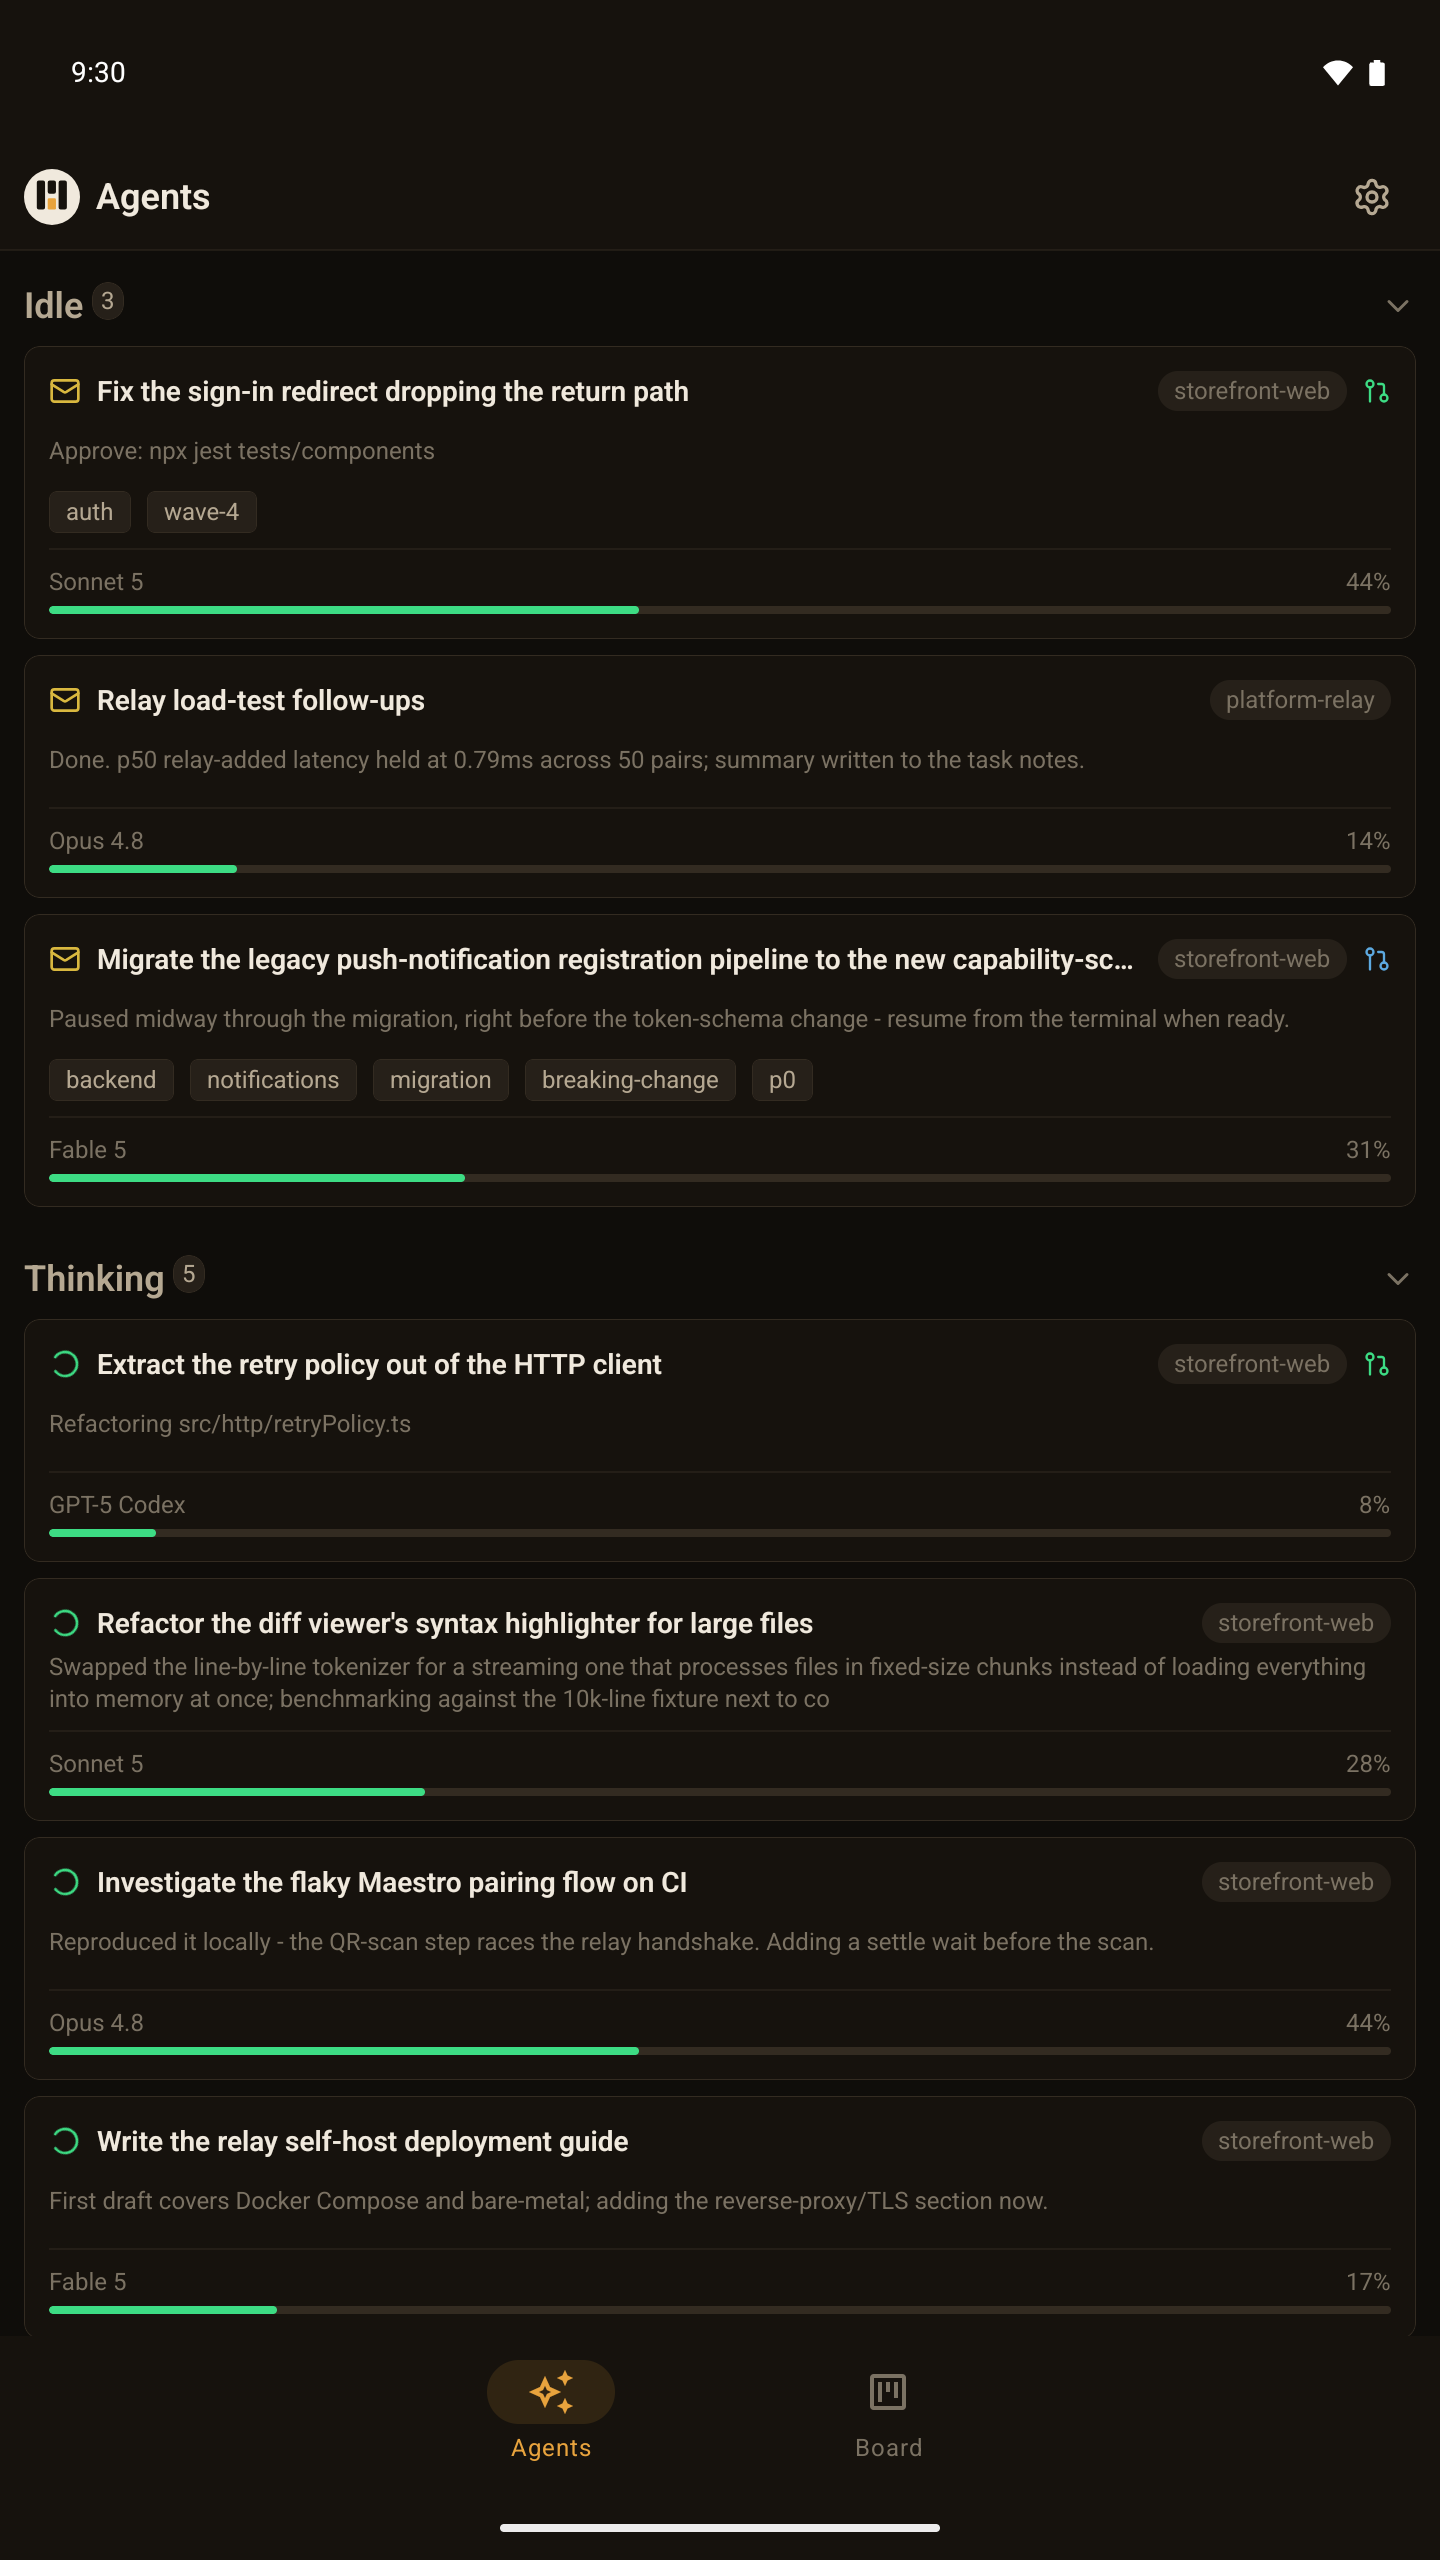
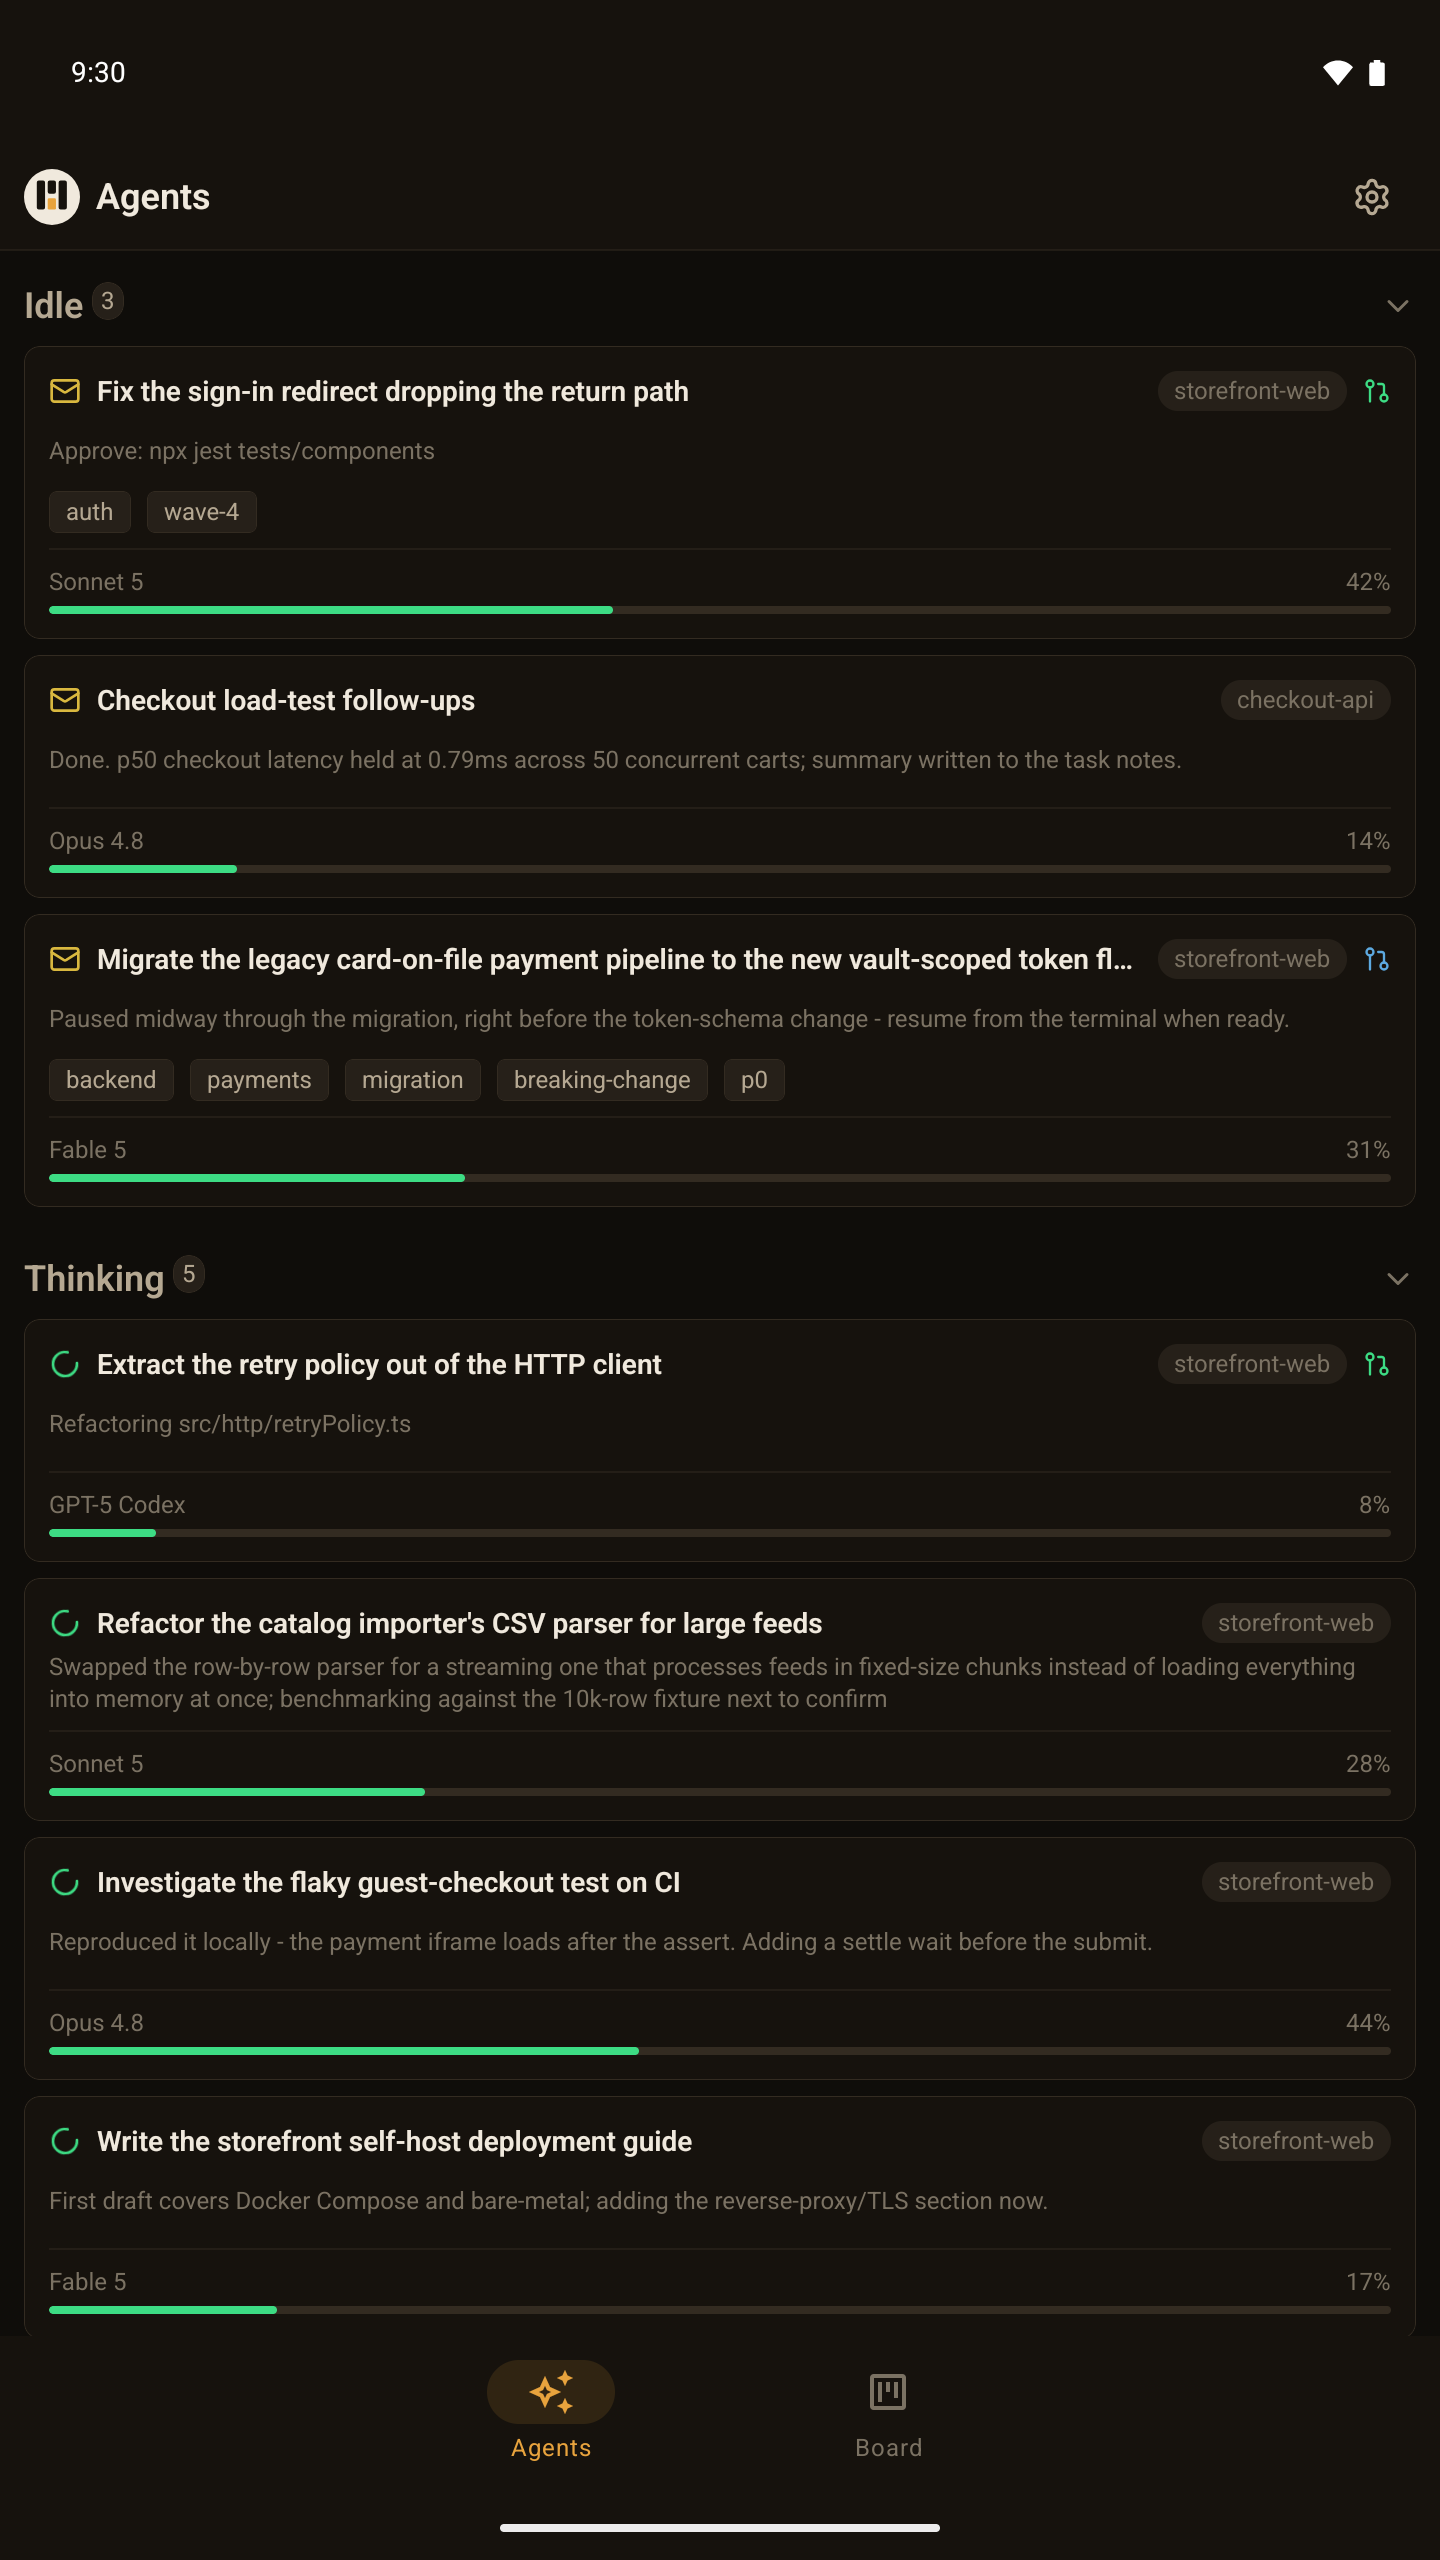
chore(store): re-capture the Android shelves, and fix the iOS minimum
All three Play shelves now match the rewritten fixtures, so every shelf tells
the storefront/checkout story and none of them names Kangentic's own work. All
24 frames across the four shelves are finally from one set of fixtures.

Also corrects a claim this repo made in three places. Apple's iPhone minimum
is ONE screenshot, not three: its upload help says "you're only required to
provide a single screenshot (6.5" or 6.9")", and Media Manager's "only the
first 3 will be used on the app installation sheets" is the number Apple
DISPLAYS, not the number it requires. The cap is 10.

And documents the upload path, which is not discoverable from the version page:
6.9" is the SOURCE slot - the only one with active Choose File / Delete All -
and App Store Connect derives 6.5", 6.3" and smaller from it, greyed out. The
version page happens to list the derived 6.5" slot first, which reads as though
6.5" is what it wants, so the iPhone set has to be uploaded through Media
Manager targeting 6.9" explicitly. 1320x2868 is confirmed against Apple's spec
as an accepted 6.9" size, alongside 1260x2736 and 1290x2796.

Two notes from the capture run itself, both worth not re-deriving:

The first phone attempt failed to find the session row and passed on a plain
re-run. The row MIGRATES as the mock's prompt raises at tick 20 - Thinking
below the fold, then Idle at the top - so a downward search can pass it or
miss it depending on where the feed sits when the search starts. The emulator
[…]

diff --git a/.claude/skills/release/SKILL.md b/.claude/skills/release/SKILL.md
@@ -38,7 +38,7 @@ wastes a 20 minute build and can leave a dangling Play edit.
 | android + production | **Blocked** | Personal Play account created 2026-07-20, so production access needs a closed test with **12+ testers opted in for 14 continuous days** first. Opt-outs reset the clock. See the deployment-track ladder in `docs/developer-guide.md`. |
 | ios + TestFlight internal | **Works** | Needs `ASC_API_KEY_BASE64` + `ASC_KEY_ID` + `ASC_ISSUER_ID`, or `APPLE_ID` + `APPLE_APP_SPECIFIC_PASSWORD`, as GitHub secrets. Check with `gh secret list` before promising it. |
 | ios + TestFlight external | **Blocked** | Needs a Beta App Review plus a beta description, feedback email, and test information. None entered. |
-| ios + App Store | **Blocked** | Needs the privacy questionnaire, an age rating, and a resolved export-compliance answer. Screenshots are NO LONGER part of this gap: six 6.9-inch frames at 1320x2868 are tracked in `store/screenshots/ios/iphone-6.9/`, against a minimum of three. They are captured on a free macOS runner (`gh workflow run build-ios.yml -f screenshots=true`) because a booted simulator cannot run from Windows, at roughly 45 minutes per attempt. `ITSAppUsesNonExemptEncryption` is currently `false` as a reasoned default, not a verified conclusion; see the comment in `app.config.ts`. |
+| ios + App Store | **Blocked** | Needs the privacy questionnaire, an age rating, and a resolved export-compliance answer. Screenshots are NO LONGER part of this gap: six 6.9-inch frames at 1320x2868 are tracked in `store/screenshots/ios/iphone-6.9/`, against an Apple minimum of **one** (10 is the cap, and only the first 3 reach install sheets - "minimum three" was this row's earlier error). Upload via Media Manager targeting 6.9", which is the source slot every smaller iPhone size is derived from. They are captured on a free macOS runner (`gh workflow run build-ios.yml -f screenshots=true`) because a booted simulator cannot run from Windows, at roughly 45 minutes per attempt. `ITSAppUsesNonExemptEncryption` is currently `false` as a reasoned default, not a verified conclusion; see the comment in `app.config.ts`. |
 
 If the user insists on a blocked path after being told, say plainly that it cannot be done and stop.
 Do not attempt a workaround.

diff --git a/store/screenshots/README.md b/store/screenshots/README.md
@@ -89,8 +89,23 @@ eligible for Play's promotional surfaces.
 
 ## iOS
 
-All six shots, at Apple's exact 1320x2868. `ios.supportsTablet` is `false` in `app.config.ts`,
-so App Store Connect wants one shelf only: **6.9-inch iPhone at 1320x2868, minimum three**.
+All six shots at 1320x2868, an accepted **6.9-inch** size (Apple also lists 1260x2736 and
+1290x2796 for that display). `ios.supportsTablet` is `false` in `app.config.ts`, so App Store
+Connect wants one shelf only.
+
+**6.9-inch is the SOURCE slot, and every smaller iPhone size is derived from it.** In App Store
+Connect's Media Manager, 6.9" is the one with active `Choose File` / `Delete All`; the 6.5", 6.3"
+and smaller entries read "Using 6.9" Display" with their controls greyed out. Two consequences
+worth knowing before you go hunting:
+
+- The **version page lists the derived 6.5" slot first**, which reads as though 6.5" is what it
+  wants. It is not. Upload through **Media Manager** and target 6.9" explicitly.
+- One set covers the whole iPhone listing. There is no second size to produce.
+
+**Apple's minimum is ONE, not three.** Its upload help says "you're only required to provide a
+single screenshot (6.5" or 6.9") for iPhone", and Media Manager says "only the first 3 will be
+used on the app installation sheets" - that is the number Apple DISPLAYS, not the number it
+requires, and an earlier version of this file conflated them. The cap is 10.
 
 ```
 ios/iphone-6.9/       1320x2868   App Store 6.9-inch iPhone shelf

diff --git a/docs/store-listing.md b/docs/store-listing.md
@@ -39,7 +39,15 @@ All three Play shelves are required in the listing form as long as the app is di
 tablets. Restricting **Test and release -> Advanced settings -> Form factors** to phone should
 drop the two tablet requirements; the tablet captures exist either way, so that is a reach
 decision rather than a blocker. `ios.supportsTablet` is `false`, so App Store Connect wants the
-single 6.9-inch shelf, minimum three - and six are tracked.
+single 6.9-inch shelf. Apple's minimum there is **one** (its upload help: "you're only required to
+provide a single screenshot"), the cap is 10, and only the first 3 appear on install sheets - so
+the "minimum three" an earlier version of this file claimed was the number Apple DISPLAYS, not the
+number it requires. Six are tracked.
+
+Upload the iPhone set through **Media Manager**, targeting **6.9"**. That is the source slot, and
+App Store Connect derives 6.5", 6.3" and smaller from it - their controls are greyed out. The
+version page happens to list the derived 6.5" slot first, which misleadingly reads as though 6.5"
+is what it wants.
 
 The Android shelves are captured locally against an emulator. The iOS shelf cannot be captured
 from Windows and runs on a free macOS runner instead, at roughly 45 minutes per attempt.
